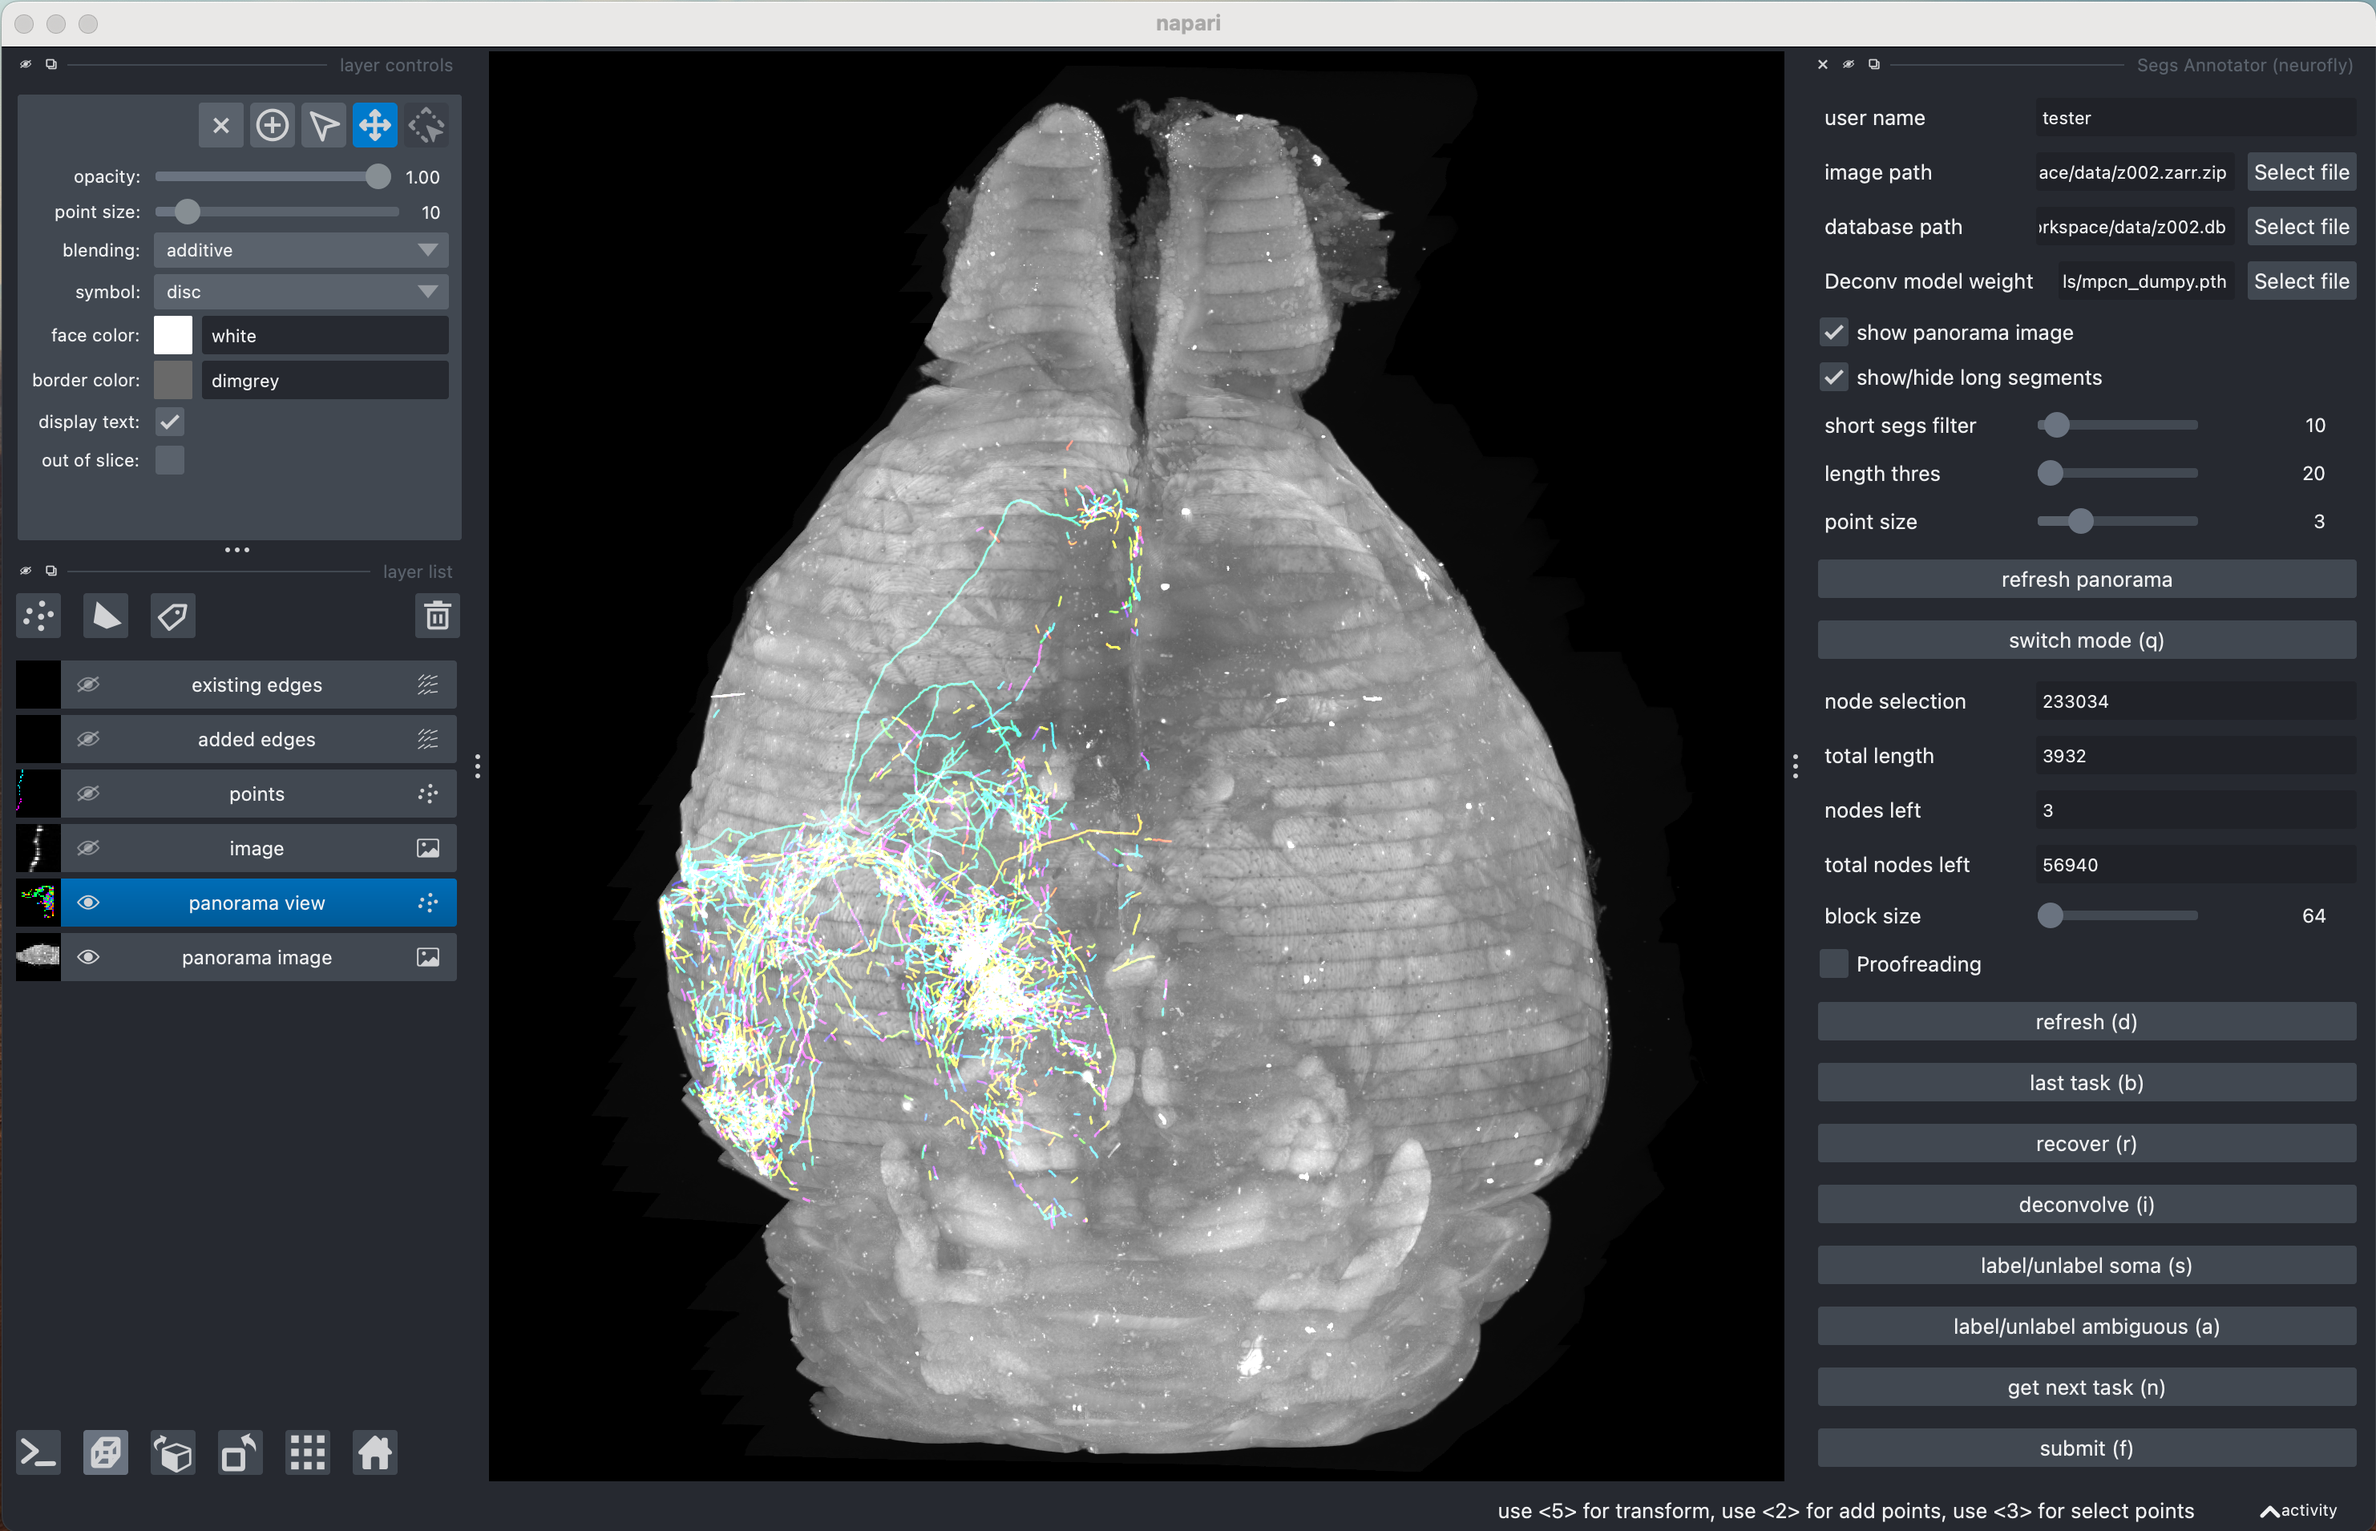
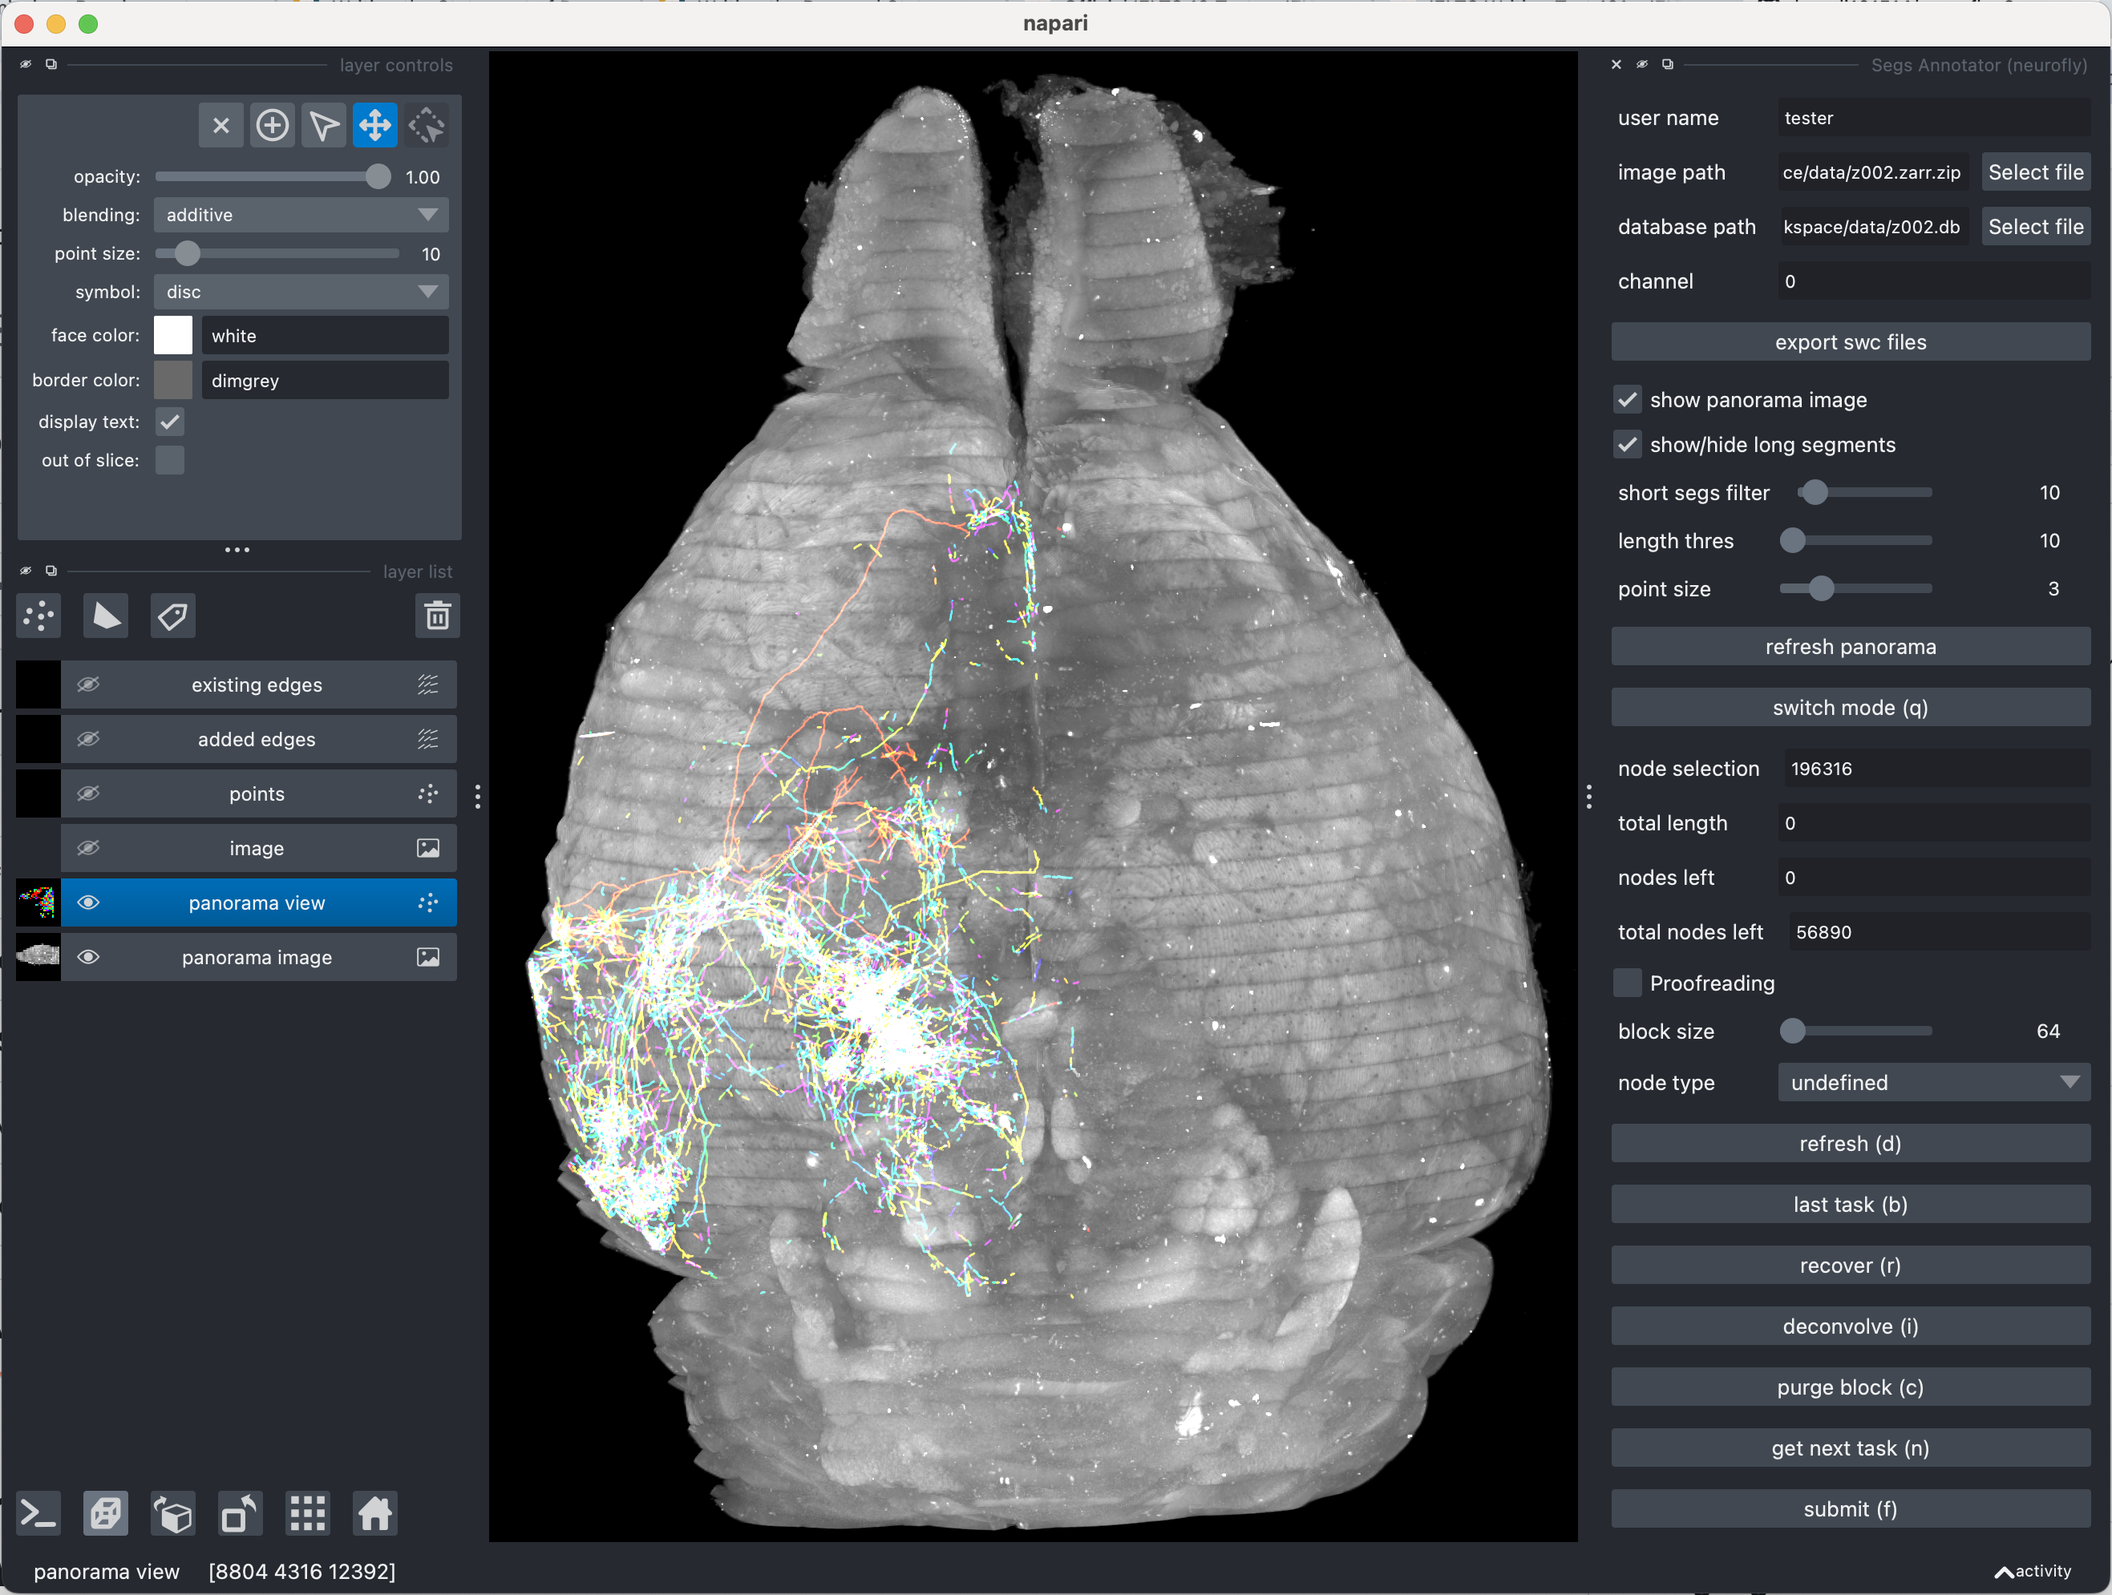
documentation

diff --git a/neurofly/segs_annotator.py b/neurofly/segs_annotator.py
@@ -73,15 +73,19 @@ class Annotator(widgets.Container):
         self.viewer.bind_key('r', self.recover, overwrite=True)
         self.viewer.bind_key('g', self.switch_layer, overwrite=True)
         self.viewer.bind_key('d', self.refresh, overwrite=True)
-        self.viewer.bind_key('f', self.submit_result, overwrite=True)
-        self.viewer.bind_key('w', self.connect_one_nearest, overwrite=True)
-        self.viewer.bind_key('e', self.connect_two_nearest, overwrite=True)
-        self.viewer.bind_key('b', self.last_task, overwrite=True)
-        self.viewer.bind_key('n', self.get_next_task, overwrite=True)
         self.viewer.bind_key('i', self.deconvolve, overwrite=True)
-        self.viewer.bind_key('c', self.purge, overwrite=True)
-        self.viewer.bind_key('Up', self.show_more_branches , overwrite=True)
-        self.viewer.bind_key('Down', self.show_less_branches , overwrite=True)
+        self.point_layer.bind_key('f', self.submit_result, overwrite=True)
+        self.point_layer.bind_key('w', self.connect_one_nearest, overwrite=True)
+        self.point_layer.bind_key('e', self.connect_two_nearest, overwrite=True)
+        self.point_layer.bind_key('b', self.last_task, overwrite=True)
+        self.point_layer.bind_key('n', self.get_next_task, overwrite=True)
+        self.point_layer.bind_key('c', self.purge, overwrite=True)
+        self.point_layer.bind_key('Up', self.show_more_branches , overwrite=True)
+        self.point_layer.bind_key('Down', self.show_less_branches , overwrite=True)
+
+        self.point_layer.bind_key('0', self.label_undefined, overwrite=True)
+        self.point_layer.bind_key('1', self.label_soma, overwrite=False)
+        self.point_layer.bind_key('8', self.label_ambiguous, overwrite=True)
 
         self.panorama_points.mouse_drag_callbacks.append(self.node_selection)
         self.point_layer.mouse_drag_callbacks.append(self.node_operations)
@@ -181,6 +185,53 @@ class Annotator(widgets.Container):
             self.next_task_button,
             self.submit_button
         ])
+
+
+
+    def label_undefined(self, viewer):
+        if self.mode_switch.mode == 'panorama':
+            show_info("switch to labeling mode")
+            return
+        node_id = int(self.selected_node.value)
+        type_idx = 0
+        self.node_type_dropdown.changed.disconnect(self.on_changing_type)
+        self.node_type_dropdown.value = self.node_types[type_idx]
+        self.node_type_dropdown.changed.connect(self.on_changing_type)
+        change_type(str(self.db_path.value),node_id,type_idx)
+        self.G.nodes[node_id]['type'] = type_idx
+        show_info(f"{node_id} labeled as {str(self.node_type_dropdown.value)}")
+        self.refresh(self.viewer)
+
+
+    def label_soma(self, viewer):
+        if self.mode_switch.mode == 'panorama':
+            show_info("switch to labeling mode")
+            return
+        node_id = int(self.selected_node.value)
+        type_idx = 1
+        self.node_type_dropdown.changed.disconnect(self.on_changing_type)
+        self.node_type_dropdown.value = self.node_types[type_idx]
+        self.node_type_dropdown.changed.connect(self.on_changing_type)
+        change_type(str(self.db_path.value),node_id,type_idx)
+        self.G.nodes[node_id]['type'] = type_idx
+        show_info(f"{node_id} labeled as {str(self.node_type_dropdown.value)}")
+        self.refresh(self.viewer)
+
+
+    def label_ambiguous(self, viewer):
+        if self.mode_switch.mode == 'panorama':
+            show_info("switch to labeling mode")
+            return
+        node_id = int(self.selected_node.value)
+        type_idx = 7
+        self.node_type_dropdown.changed.disconnect(self.on_changing_type)
+        self.node_type_dropdown.value = self.node_types[type_idx]
+        self.node_type_dropdown.changed.connect(self.on_changing_type)
+        change_type(str(self.db_path.value),node_id,type_idx)
+        self.G.nodes[node_id]['type'] = type_idx
+        show_info(f"{node_id} labeled as {str(self.node_type_dropdown.value)}")
+        self.refresh(self.viewer)
+
 
     def on_reading_image(self):
         self.image = wrap_image(str(self.image_path.value))
@@ -649,8 +700,13 @@ class Annotator(widgets.Container):
             if len(added_nodes)>0:
                 add_nodes(path,added_nodes)
 
-            if len(self.added['edges'])>0:
-                add_edges(path,self.added['edges'],self.user_name.value)
+            added_edges = []
+            for edge in self.added['edges']:
+                if edge[0] not in deleted_nodes and edge[1] not in deleted_nodes:
+                    added_edges.append(edge)
+
+            if len(added_edges)>0:
+                add_edges(path, added_edges, self.user_name.value)
 
             check_node(path,int(self.selected_node.value))
 

diff --git a/README.md b/README.md
@@ -1,7 +1,9 @@
 # NeuroFly: A framework for single neuron reconstruction at whole-brain scale
+
+This package provides tools for semi-automatic neuron reconstruction. Features based on deep learning, like image segmentation and deconvolution are implemented in [tinygrad](https://github.com/tinygrad/tinygrad), which can run on almost any GPU (NVIDIA, AMD, Apple, Qualcomm).
 <img src="assets/main.png" width="480">
 
-## Installation 
+## Installation
 
 ```
 pip install --upgrade git+https://github.com/beanli161514/neurofly.git
@@ -46,22 +48,29 @@ Segments are results of the segmentation stage, they are used to generate initia
 
 ## Basic usage example
 
-<img src="assets/pipeline.png" width="480">
+<img src="assets/pipeline.png" width="640">
 
+NeuroFly packaged 4 napari plugins for image browsing, image segmentation, and data annotation.
+
+<img src="assets/menu.png" width="320">
 
 ### Segmentation
 
-NeuroFly support whole brain image saved in hierarchical data structures(ims, h5, and zarr) and small image volumes saved in single-channel tiff format. Here we use a mouse brain in our dataset named z002.ims as example.
+NeuroFly supports whole brain image saved in hierarchical data structures(ims, h5, and zarr) in [Imaris File Format](https://imaris.oxinst.com/support/imaris-file-format) and small image volumes saved in single-channel tiff format. Here we use a mouse brain in our dataset named z002.ims as example.
 
-First, extract some segments using command line interface 'seg'. For VISoR and fMOST images, you can just use the default conassets
+This brain is sparsely labeled, which means only a tiny puny part of neurons are lighted and imaged. To extract these foreground singals, you can use the provided command line interface 'seg'. We provide a default weight trained on images captured by VISoR and fMOST.
 ```
 seg -i z002.ims -vis -d z002.db
 ```
-Then you should see the extracted segments and a z002.db file in your working dictionary.
+or use the graphical interface
+
+<img align src="assets/neuron_seger.png" width="200">
 
 
-### Manual proofreading
-Then skip the connection stage (algorithm is in development) and manually proofread the result. 
+This process may take about 10 hours depending on your you hardware configuration. When finished, you should see the extracted segments and a database file named z002.db in your working dictionary.
+
+
+### Manual connection and proofreading
 
 Launch annotation tool from napari menu, Plugin -> neurofly -> Segs Annotator
 
@@ -72,5 +81,51 @@ Load image file (z002.ims) and database file (z002.db), then click **refresh pan
 
 
 #### Select one node as start point of annotation
-In panorama mode, you can easily identify sparse, bright signals that are promising for reconstruction. Click on one of the conspicuous segments to select it as start point of annotation. Once selected, the id of picked node will be displayed at **node selection**. 
+In panorama mode, you can easily identify sparse, bright signals that are promising for reconstruction. The silde bars 'short segs filter', 'length thres', and 'point size' can be adjusted to hide noise and short segments. 
 
+If you can clearly identify foreground segments, click on one of the conspicuous segments to select it as start point of annotation. Once selected, the id of picked node will be displayed at **node selection**. Then click 'switch mode' to switch to labeling mode, and the tasks will be generated automatically.
+
+
+#### Task generation
+Given a selected node, task generator analyses its connected component and extract all unchecked terminal nodes. The tasks are designed very simple: Connect the center node with the surrounding nodes if there should be an edge. The criterion is whether the edge aligns well with the imaged neuron fibers.
+
+<img src="assets/task_generation.png" width="480">
+
+
+#### Node operations
+<img src="assets/labeling_mode.png" width="480">
+
+In each task, a center node and nearby segments are rendered, you can add/remove nodes and edges to get a reasonable local structure.
+
+
+Left click on nodes to add/remove an edge between it and the center node
+<img src="assets/add_edges.gif" width="480">
+
+Right click to remove a node
+<img src="assets/remove_nodes.gif" width="480">
+
+
+Press 'g' or use left panel to switch to 'image' layer, then right click to add points
+
+<img src="assets/add_nodes.gif" width="480">
+
+
+Use dropdown selection in right panel to add type label for center node.
+
+<img src="assets/change_type.gif" width="480">
+
+#### Deconvolution
+Press 'i' or click on 'deconvolution' to deconvolve the image
+<img src="assets/deconv.gif" width="640">
+
+
+#### Proofreading
+
+If you find something wrong when labeling, for example, two somas are connected together. You can use proofreading mode to check the neuron branch by branch.
+<img src="assets/proofreading.gif" width="640">
+
+
+
+### Export as swc file
+Switch to panorama mode, adjust 'length_thres' to filter out short segments and keep only complete neurons. Then press 'export swc files', each neuron will be saved as one .swc file in your working dictionary.
+<img src="assets/export.jpg" width="640">
